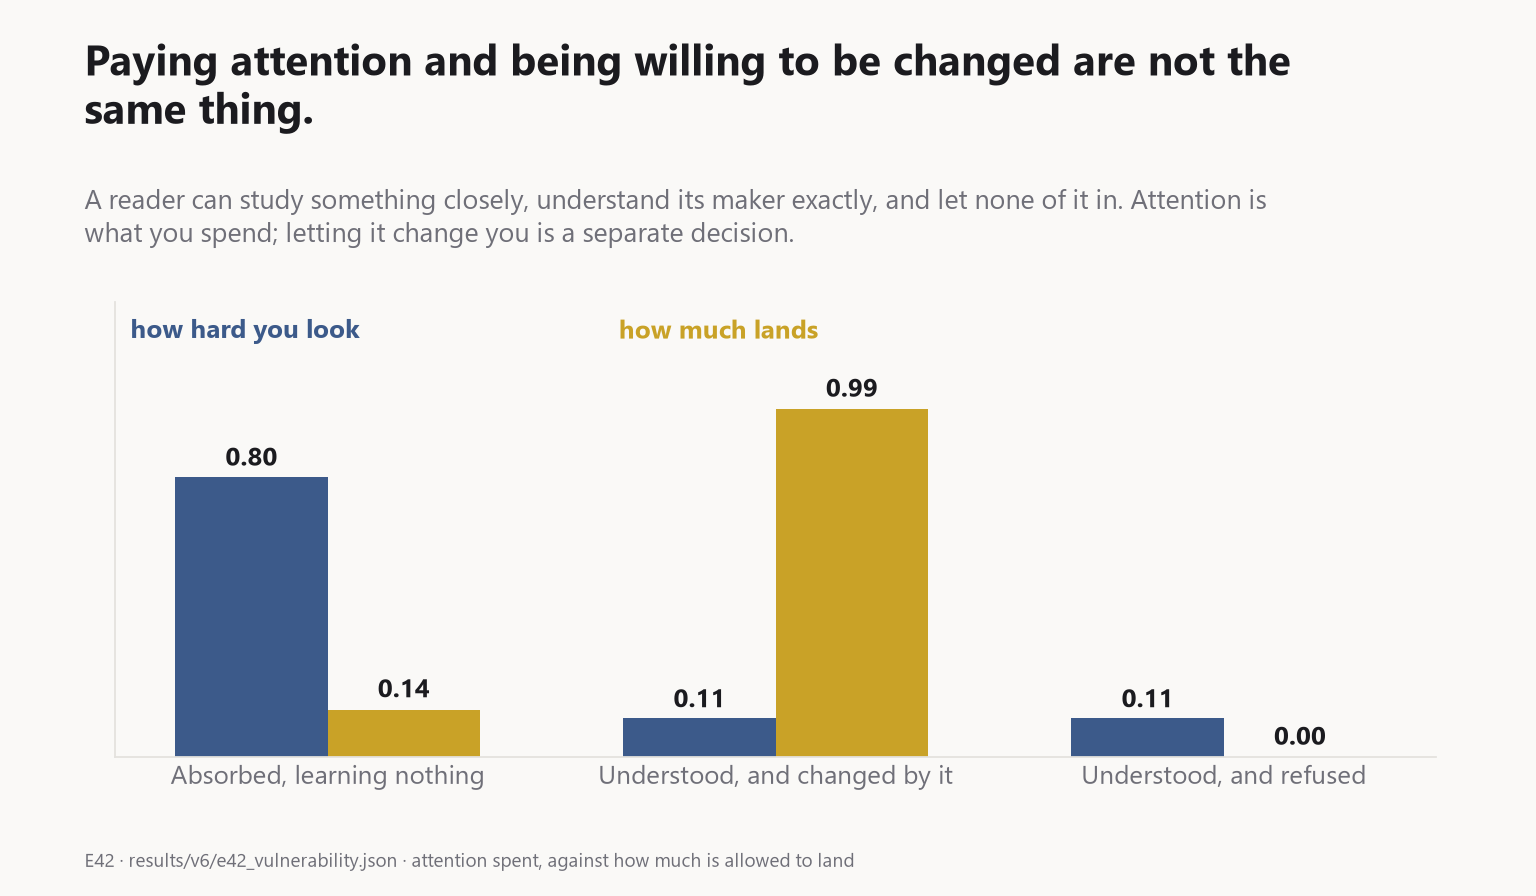
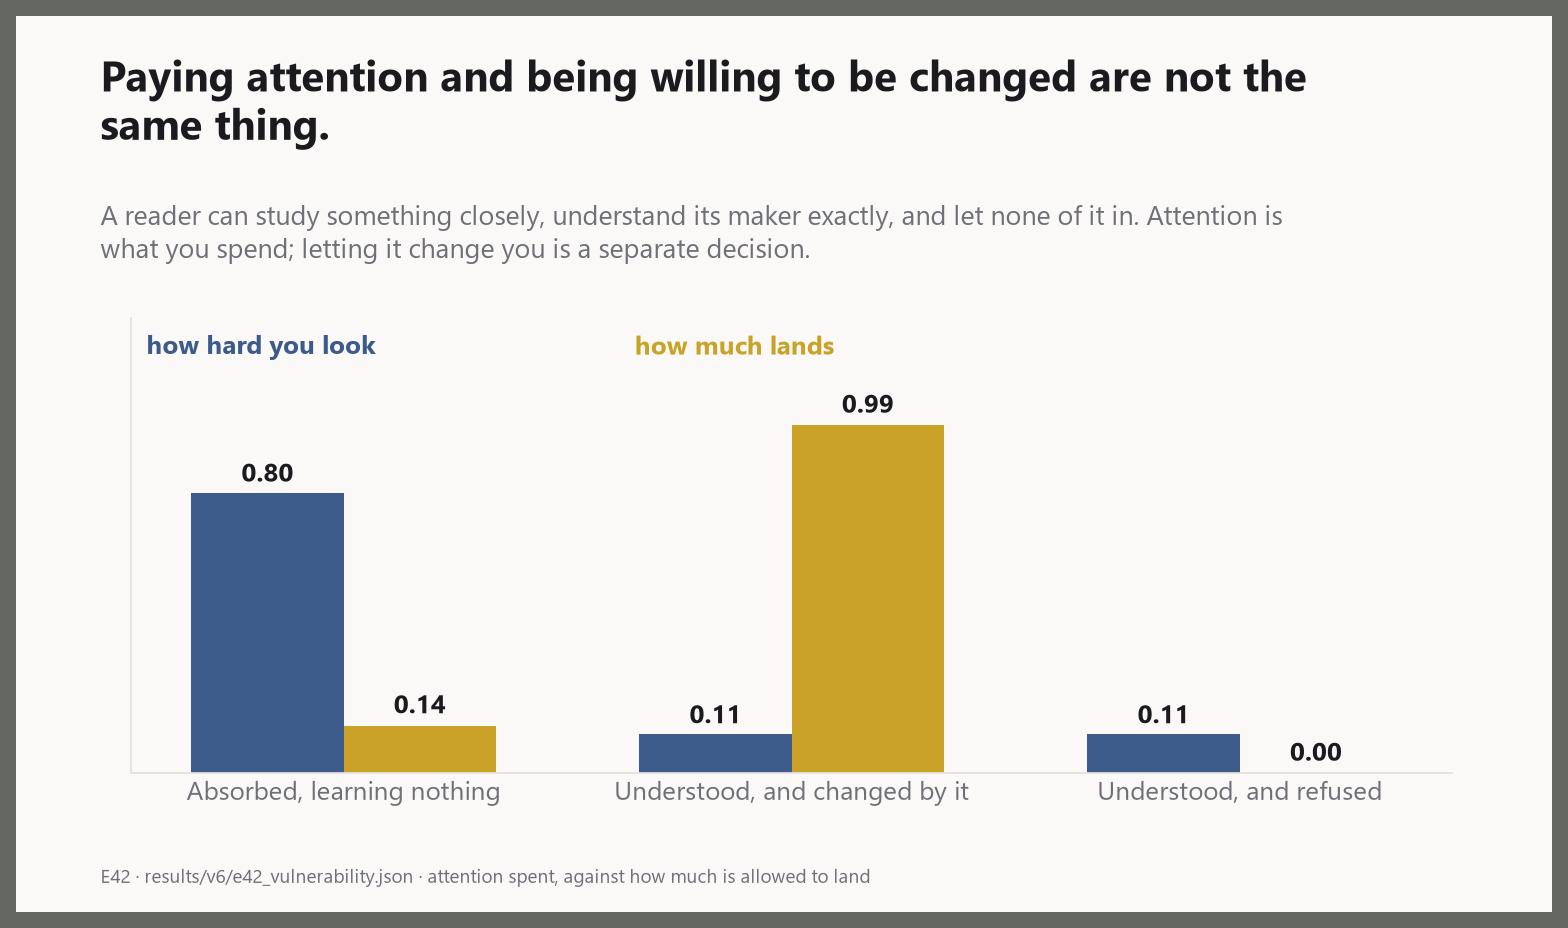
A grey frame on every plate, and plate 25 corrected: worse, not merely no better
FRAME. All 26 walkthrough plates now carry a 16px border in the same grey as the
rendered panel of the Ghost Scale pair. That tone is deliberate rather than
decorative: the whole figure set is machine-drawn, and the border says so in the
project's own vocabulary.

Composited after savefig rather than set as a figure edge, for two reasons. The
plate audit measures text against the canvas, so growing the canvas first would
move every coordinate it checks. And a matplotlib figure edge is drawn INSIDE
the canvas, eating layout the plate has already budgeted.

PLATE 25 was being misread, and the misreading was the plate's fault rather than
the reader's. Three fixes:

The middle annotation said "no better than doing nothing" and understated the
result. It is WORSE than doing nothing. The surface filter gives nothing back on
the poisoned stream AND damages the clean one, 0.23 against 0.13, because it
throws away real work it misreads. The title now says so too.

The axis said "damage to its model of people", which does not tell a reader
which direction is bad on an axis that deliberately has no ticks. It now reads
"how wrong it ends up about people", the subtitle states that taller is worse
and says what each of the two bars is, and a "worse" arrow sits on the axis. The
direction is the one thing a reader most needs here and cannot infer.

The legend moved above the axes as a single row. Inside the frame it collided
[…]

diff --git a/scripts/make_walkthrough_plates.py b/scripts/make_walkthrough_plates.py
@@ -923,29 +923,44 @@ def plate_25_a_defence_that_works():
     clean = [cell("clean", r, "human_model_corrupted") for r, _ in readers]
 
     fig, ax = plate(
-        "Filtering AI slop by how good it looks does nothing. Asking who wrote it works.",
-        "Damage to what a learner understands about people, after reading a stream salted with "
-        "content built to be absorbed by machines rather than read by anyone. Lower is better.",
+        "Filtering AI slop by how good it looks is worse than not filtering at all.",
+        "Each bar is how WRONG the learner ends up about real people after reading a stream. "
+        "Taller is worse. The red bar is a stream salted with content built to be absorbed by "
+        "machines; the teal bar is the same learner on a clean stream, which is the cost of the "
+        "filter itself.",
         "E55 - results/v10/summary.json - reproduces in 83% of randomly parameterised models, so "
         "most of this is architecture; read the direction")
 
     x = np.arange(len(readers))
     w = 0.36
     b1 = ax.bar(x - w / 2, poisoned, w, color=MACHINE, label="poisoned stream")
-    b2 = ax.bar(x + w / 2, clean, w, color=HUMAN, label="clean stream")
+    b2 = ax.bar(x + w / 2, clean, w, color=HUMAN, label="clean stream (the filter's own cost)")
     for bars, vals in ((b1, poisoned), (b2, clean)):
         for b, v in zip(bars, vals):
             ax.text(b.get_x() + b.get_width() / 2, v + 0.02, f"{v:.2f}",
                     ha="center", va="bottom", fontsize=13, fontweight="bold", color=INK)
 
     ax.set_xticks(x, [lbl for _, lbl in readers], fontsize=11.5, linespacing=1.25)
-    ax.set_ylim(0, max(poisoned) * 1.32)
-    clean_axis(ax, "damage to its model of people", "")
+    ax.set_ylim(0, max(poisoned) * 1.46)
+    clean_axis(ax, "how wrong it ends up about people", "")
     ax.set_yticks([])
-    ax.legend(frameon=False, fontsize=11, loc="upper right")
-    annotate(ax, 1.0, poisoned[1] + 0.14, "no better than\ndoing nothing",
+    # The legend goes ABOVE the axes, horizontally. Inside the frame it collided with the teal
+    # annotation, and there is no free corner: the tallest bars are on the left and the callouts
+    # are on the right.
+    ax.legend(frameon=False, fontsize=11.5, ncol=2, loc="lower left",
+              bbox_to_anchor=(0.0, 1.005, 1.0, 0.1), borderaxespad=0.0)
+    # The axis has no ticks by design, so the direction has to be stated or the whole plate can be
+    # read upside down. This is the single thing a reader most needs and cannot infer.
+    annotate(ax, -0.47, max(poisoned) * 1.30, "worse ↑", color=MUTED, fontsize=11,
+             weight="bold", ha="left")
+
+    # WORSE, not merely no better, and the second bar is the reason. It gives nothing back on the
+    # poisoned stream and it damages the clean one, because it throws away real work it misreads.
+    annotate(ax, 1.0, poisoned[1] + 0.13,
+             "worse than doing nothing:\nno help on the poison,\nand it damages clean text",
              color=MACHINE, fontsize=11.5, weight="bold", ha="center")
-    annotate(ax, 2.0, poisoned[2] + 0.14, "a quarter less damage,\nand free on clean data",
+    annotate(ax, 2.0, poisoned[2] + 0.13,
+             "a quarter less damage,\nand free on clean text",
              color=HUMAN, fontsize=11.5, weight="bold", ha="center")
 
     record(save(fig, "25_a_defence_that_works"),

diff --git a/ghostscale/plates.py b/ghostscale/plates.py
@@ -237,12 +237,36 @@ def audit(fig, name: str = "") -> list:
     return problems
 
 
+FRAME = (101, 104, 97)   # the same grey as the rendered panel of the Ghost Scale pair
+FRAME_PX = 16            # thicker than strictly needed, so the plate has an edge on any background
+
+
+def _frame(path: Path) -> None:
+    """Put a grey border on a finished plate.
+
+    Applied AFTER savefig rather than as a figure edge, for two reasons. The audit measures text
+    against the canvas, so growing the canvas first would move every coordinate it checks. And a
+    matplotlib figure edge is drawn INSIDE the canvas, which eats layout the plate has already
+    budgeted. Compositing afterwards leaves the plate untouched and adds an edge around it.
+
+    The tone is the grey from the Ghost Scale pair's rendered panel, deliberately: the whole figure
+    set is machine-drawn, and the border says so in the project's own vocabulary.
+    """
+    from PIL import Image
+
+    im = Image.open(path).convert("RGB")
+    out = Image.new("RGB", (im.width + 2 * FRAME_PX, im.height + 2 * FRAME_PX), FRAME)
+    out.paste(im, (FRAME_PX, FRAME_PX))
+    out.save(path)
+
+
 def save(fig, name: str) -> Path:
     PLATE_DIR.mkdir(parents=True, exist_ok=True)
     path = PLATE_DIR / f"{name}.png"
     for p in audit(fig, name):
         print(f"  !! {p}")
     fig.savefig(path, bbox_inches=None)
+    _frame(path)
     plt.close(fig)
     return path
 
